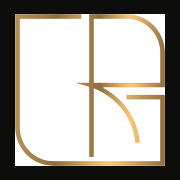
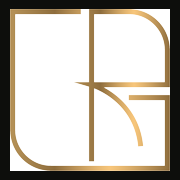
Restaura monograma no ícone do PWA Chrome (#49)
* Usa o monograma GR nos ícones do app (favicon, iOS e PWA).

Gera PNGs 16–512 a partir de mark-gr-gold, wire em todas as páginas
via chevalier_brand_icons_head e adiciona site.webmanifest.

* Corrige 404 do PWA: manifest na raiz com start_url válido.

O start_url ../../index.php a partir de assets/img/icons apontava
para assets/index.php. Manifest agora em /site.webmanifest.

* Remove site.webmanifest aninhado que causava o 404 do PWA.

* Restaura ícone do PWA com manifest.php e monograma na raiz.

Chrome perdia o ícone com paths aninhados; agora o manifest gera
URLs absolutas e expõe icon-192/512 na raiz do site.

---------

Changed region(s): [[0.0556, 0.0278, 0.9444, 0.9722]]

diff --git a/index.html b/index.html
@@ -6,7 +6,9 @@
 <title>Dr Gabriel Rosa</title>
 <link rel="canonical" href="home.php">
 <link rel="icon" href="favicon.ico" sizes="any">
+<link rel="icon" type="image/png" sizes="192x192" href="icon-192.png">
 <link rel="apple-touch-icon" href="apple-touch-icon.png">
+<link rel="manifest" href="manifest.php">
 <script>location.replace('home.php');</script>
 </head>
 <body>

diff --git a/api/app-version-lib.php b/api/app-version-lib.php
@@ -105,6 +105,20 @@ function chevalier_asset_url(string $path): string
     return htmlspecialchars($path . '?v=' . $version, ENT_QUOTES, 'UTF-8');
 }
 
+/** Caminho-base público do app ('' na raiz, '/pasta' em subdiretório). */
+function chevalier_web_base_path(): string
+{
+    $script = (string) ($_SERVER['SCRIPT_NAME'] ?? '/');
+    $dir = str_replace('\\', '/', dirname($script));
+    if ($dir === '/' || $dir === '\\' || $dir === '.') {
+        return '';
+    }
+    if (str_ends_with($dir, '/api')) {
+        $dir = substr($dir, 0, -4);
+    }
+    return rtrim($dir, '/');
+}
+
 /**
  * Favicon + ícones de app (PWA / iOS) com o monograma GR.
  * Imprimir dentro de <head>.
@@ -113,10 +127,11 @@ function chevalier_brand_icons_head(): void
 {
     $icon16 = chevalier_asset_url('assets/img/icons/icon-16.png');
     $icon32 = chevalier_asset_url('assets/img/icons/icon-32.png');
-    $icon192 = chevalier_asset_url('assets/img/icons/icon-192.png');
-    $apple = chevalier_asset_url('assets/img/icons/apple-touch-icon.png');
-    // Manifest na raiz: start_url/scope relativos resolvem para o app, não para assets/
-    $manifest = chevalier_asset_url('site.webmanifest');
+    $icon192 = chevalier_asset_url('icon-192.png');
+    $icon512 = chevalier_asset_url('icon-512.png');
+    $apple = chevalier_asset_url('apple-touch-icon.png');
+    // manifest.php gera src absolutos dos ícones (Chrome PWA)
+    $manifest = chevalier_asset_url('manifest.php');
     $svg = chevalier_asset_url('assets/img/favicon.svg');
     $ico = chevalier_asset_url('favicon.ico');
     echo '<link rel="icon" href="' . $ico . '" sizes="any">' . "\n";
@@ -124,6 +139,7 @@ function chevalier_brand_icons_head(): void
     echo '<link rel="icon" type="image/png" sizes="32x32" href="' . $icon32 . '">' . "\n";
     echo '<link rel="icon" type="image/png" sizes="16x16" href="' . $icon16 . '">' . "\n";
     echo '<link rel="icon" type="image/png" sizes="192x192" href="' . $icon192 . '">' . "\n";
+    echo '<link rel="icon" type="image/png" sizes="512x512" href="' . $icon512 . '">' . "\n";
     echo '<link rel="apple-touch-icon" sizes="180x180" href="' . $apple . '">' . "\n";
     echo '<link rel="manifest" href="' . $manifest . '">' . "\n";
 }

diff --git a/manifest.php b/manifest.php
@@ -1,0 +1,56 @@
+<?php
+declare(strict_types=1);
+/**
+ * Web App Manifest com URLs absolutas (caminho) — evita ícone genérico no Chrome PWA.
+ */
+require_once __DIR__ . '/api/app-version-lib.php';
+
+header('Content-Type: application/manifest+json; charset=utf-8');
+header('Cache-Control: public, max-age=3600');
+
+$base = chevalier_web_base_path();
+$u = static function (string $rel) use ($base): string {
+    return $base . '/' . ltrim($rel, '/');
+};
+
+$icons = [];
+foreach ([
+    [16, 'assets/img/icons/icon-16.png', 'any'],
+    [32, 'assets/img/icons/icon-32.png', 'any'],
+    [48, 'assets/img/icons/icon-48.png', 'any'],
+    [96, 'assets/img/icons/icon-96.png', 'any'],
+    [128, 'assets/img/icons/icon-128.png', 'any'],
+    [144, 'assets/img/icons/icon-144.png', 'any'],
+    [180, 'assets/img/icons/apple-touch-icon.png', 'any'],
+    [192, 'icon-192.png', 'any'],
+    [192, 'assets/img/icons/icon-192.png', 'any'],
+    [256, 'assets/img/icons/icon-256.png', 'any'],
+    [384, 'assets/img/icons/icon-384.png', 'any'],
+    [512, 'icon-512.png', 'any'],
+    [512, 'assets/img/icons/icon-512.png', 'any'],
+    [512, 'assets/img/icons/icon-512-maskable.png', 'maskable'],
+] as [$size, $path, $purpose]) {
+    $icons[] = [
+        'src' => $u($path),
+        'sizes' => $size . 'x' . $size,
+        'type' => 'image/png',
+        'purpose' => $purpose,
+    ];
+}
+
+$manifest = [
+    'name' => 'Dr Gabriel Rosa — Gestão',
+    'short_name' => 'Gabriel Rosa',
+    'description' => 'Gestão clínica, financeira, pacientes e próteses — Dr Gabriel Rosa.',
+    'id' => $u('index.php'),
+    'start_url' => $u('index.php'),
+    'scope' => $base === '' ? '/' : $base . '/',
+    'display' => 'standalone',
+    'orientation' => 'any',
+    'background_color' => '#0d0e0c',
+    'theme_color' => '#0d0e0c',
+    'lang' => 'pt-BR',
+    'icons' => $icons,
+];
+
+echo json_encode($manifest, JSON_UNESCAPED_SLASHES | JSON_UNESCAPED_UNICODE | JSON_PRETTY_PRINT) . "\n";
